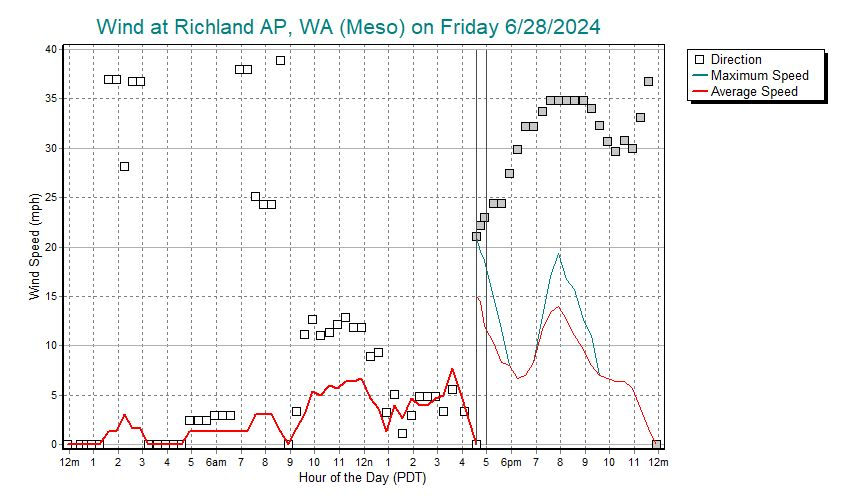
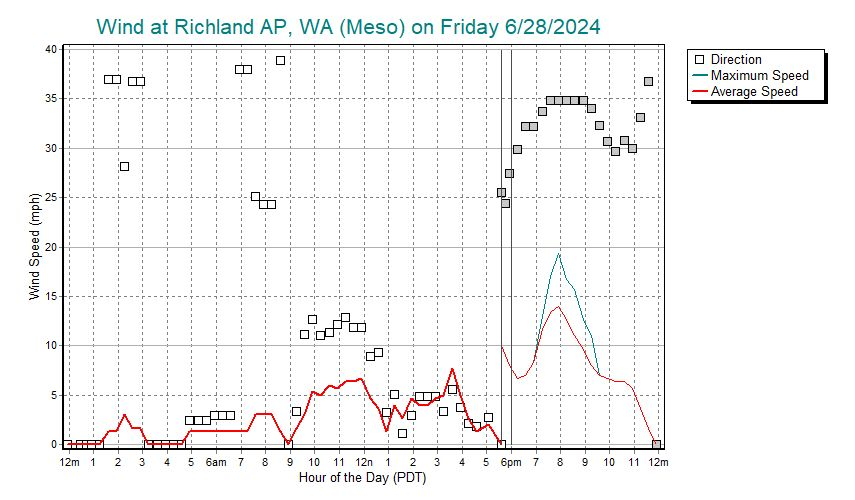
another update

Changed region(s): [[0.5474, 0.36, 0.6082, 0.75], [0.517, 0.78, 0.6082, 0.9]]

diff --git a/charts.html b/charts.html
@@ -88,7 +88,7 @@
 	<p><b><font face="Arial" size="5">Samples from Rosy.asp</font></b></p>
    </div>
    <p><span>
-(24-hour charts updated Friday, June 28, 2024 at 07:00PM Central).
+(24-hour charts updated Friday, June 28, 2024 at 08:00PM Central).
    </span></p>
    <p>The orginal ASP page is named Rosy, a nickname windsurfers from the Tri-Cities gave Roosevelt, a sailing site on the east end of the Columbia River gorge.</p>
 	<p>This first pair of sample charts, wind and temperature, is updated every 

diff --git a/charts_input.html b/charts_input.html
@@ -88,7 +88,7 @@
 	<p><b><font face="Arial" size="5">Samples from Rosy.asp</font></b></p>
    </div>
    <p><span>
-(24-hour charts updated Friday, June 28, 2024 at 07:00PM Central).
+(24-hour charts updated Friday, June 28, 2024 at 08:00PM Central).
    </span></p>
    <p>The orginal ASP page is named Rosy, a nickname windsurfers from the Tri-Cities gave Roosevelt, a sailing site on the east end of the Columbia River gorge.</p>
 	<p>This first pair of sample charts, wind and temperature, is updated every 
